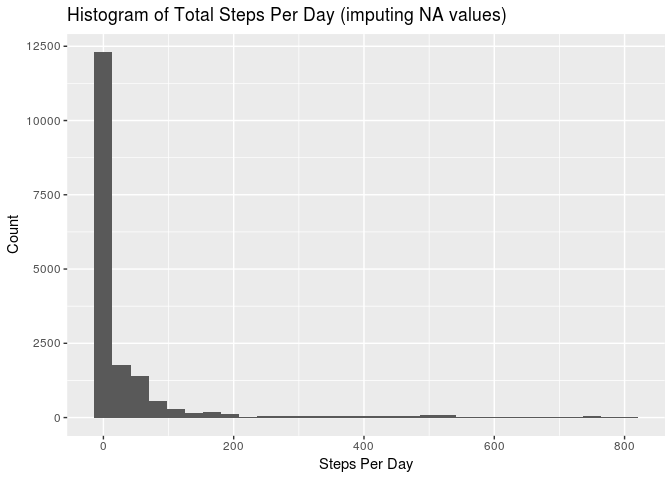
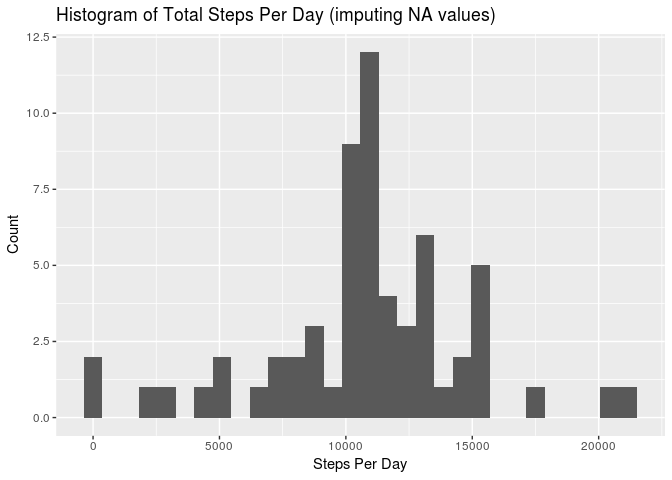
Fixed plot of step totals after imputing

diff --git a/PA1_template.html b/PA1_template.html
@@ -194,22 +194,25 @@ fill_na_df &lt;- activity_df0 %&gt;%
   rowwise() %&gt;%
   mutate(steps = if_else(is.na(steps), as.integer(round(steps_per_interval_df[ which(steps_per_interval_df$interval==interval), ]$steps)), steps))
 
+# calculate total steps by date
+steps_per_day_filled_df &lt;- aggregate(steps ~ date, fill_na_df, sum)
+
 # histogram of steps per day
-ggplot(data=fill_na_df, aes(fill_na_df$steps)) + 
+ggplot(data=steps_per_day_filled_df, aes(steps_per_day_filled_df$steps)) + 
   geom_histogram() + 
   labs(title=&quot;Histogram of Total Steps Per Day (imputing NA values)&quot;) +
   labs(x=&quot;Steps Per Day&quot;, y=&quot;Count&quot;)</code></pre>
 <pre><code>## `stat_bin()` using `bins = 30`. Pick better value with `binwidth`.</code></pre>
[2 lines of base64/hex data omitted]
 <pre class="r"><code># avg steps per day
-filled_mean = mean(fill_na_df$steps)
-filled_median = median(fill_na_df$steps)
+filled_mean = mean(steps_per_day_filled_df$steps)
+filled_median = median(steps_per_day_filled_df$steps)
 filled_mean</code></pre>
-<pre><code>## [1] 37.38069</code></pre>
+<pre><code>## [1] 10765.64</code></pre>
 <pre class="r"><code>filled_median</code></pre>
-<pre><code>## [1] 0</code></pre>
+<pre><code>## [1] 10762</code></pre>
 <p>The original data set contained 2304 rows for which the steps column was missing a value. For each of these rows, the steps value was imputed using the mean value for the associated time interval across the entire data set.</p>
-<p>After imputing missing values for the steps column, the mean number of steps per day was 37.4. The median number of steps per day was 0.</p>
+<p>After imputing missing values for the steps column, the mean number of steps per day was 10765.6. The median number of steps per day was 10762.</p>
 </div>
 <div id="are-there-differences-in-activity-patterns-between-weekdays-and-weekends" class="section level2">
 <h2>Are there differences in activity patterns between weekdays and weekends?</h2>

diff --git a/PA1_template.md b/PA1_template.md
@@ -132,8 +132,11 @@ fill_na_df <- activity_df0 %>%
   rowwise() %>%
   mutate(steps = if_else(is.na(steps), as.integer(round(steps_per_interval_df[ which(steps_per_interval_df$interval==interval), ]$steps)), steps))
 
+# calculate total steps by date
+steps_per_day_filled_df <- aggregate(steps ~ date, fill_na_df, sum)
+
 # histogram of steps per day
-ggplot(data=fill_na_df, aes(fill_na_df$steps)) + 
+ggplot(data=steps_per_day_filled_df, aes(steps_per_day_filled_df$steps)) + 
   geom_histogram() + 
   labs(title="Histogram of Total Steps Per Day (imputing NA values)") +
   labs(x="Steps Per Day", y="Count")
@@ -147,13 +150,13 @@ ggplot(data=fill_na_df, aes(fill_na_df$steps)) +
 
 ```r
 # avg steps per day
-filled_mean = mean(fill_na_df$steps)
-filled_median = median(fill_na_df$steps)
+filled_mean = mean(steps_per_day_filled_df$steps)
+filled_median = median(steps_per_day_filled_df$steps)
 filled_mean
 ```
 
 ```
-## [1] 37.38069
+## [1] 10765.64
 ```
 
 ```r
@@ -161,12 +164,12 @@ filled_median
 ```
 
 ```
-## [1] 0
+## [1] 10762
 ```
 
 The original data set contained 2304 rows for which the steps column was missing a value.  For each of these rows, the steps value was imputed using the mean value for the associated time interval across the entire data set.
 
-After imputing missing values for the steps column, the mean number of steps per day was 37.4.  The median number of steps per day was 0.
+After imputing missing values for the steps column, the mean number of steps per day was 10765.6.  The median number of steps per day was 10762.
 
 
 ## Are there differences in activity patterns between weekdays and weekends?
